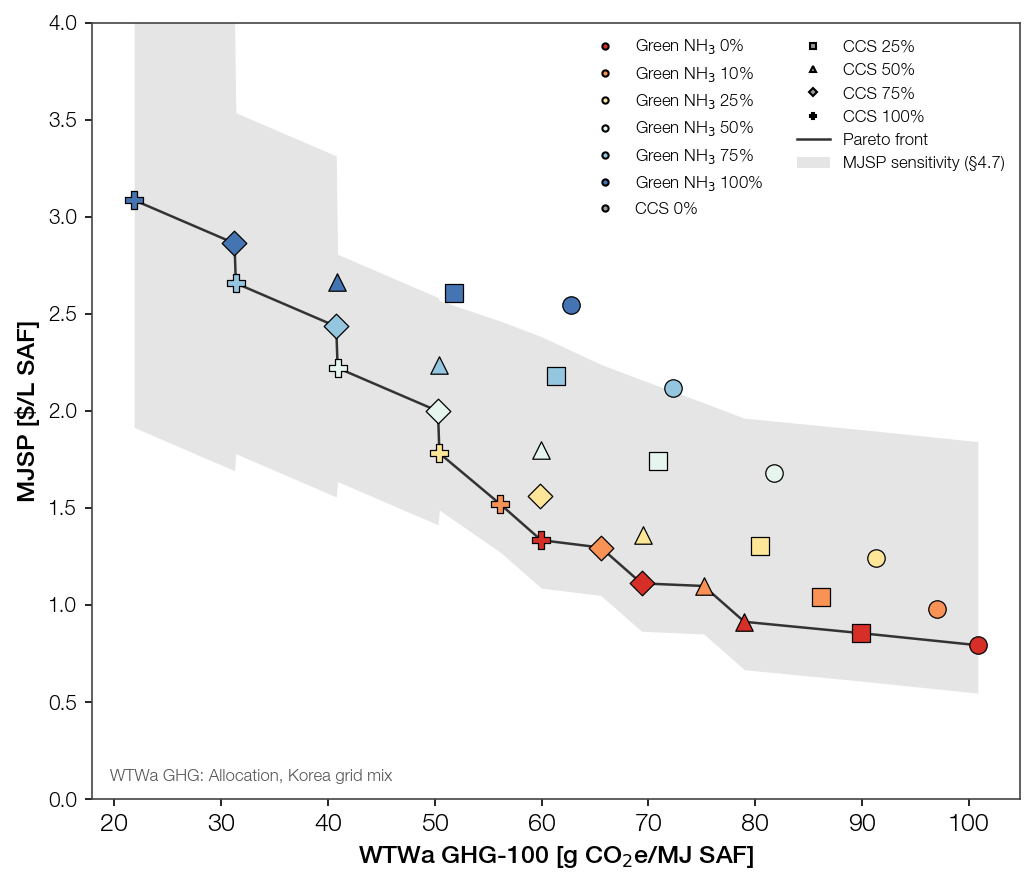
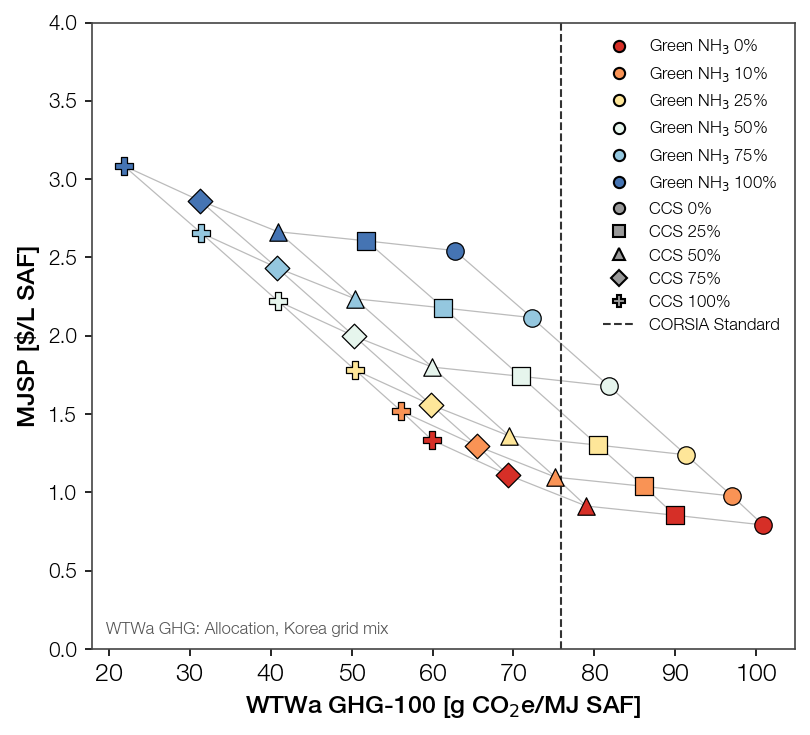
Redraw Pareto front from recorded xlsx; drop shade/front line, add mesh + CORSIA
plot_pareto_from_xlsx.py: new figure-only plotter reading Result/pareto_front.xlsx
(no TEA re-run). Scatter + iso-NH3/iso-CCS mesh, dashed CORSIA Standard line at
0.9x conventional jet WTWa GHG-100, single-column legend with enlarged markers,
5.5x5 canvas. Shade band and Pareto-front line removed.

tea_pareto_front.py: main() figsize 7x6 -> 5.5x5; removed fill_between sensitivity
band and its legend patch (lo/hi still exported).

diff --git a/plot_pareto_from_xlsx.py b/plot_pareto_from_xlsx.py
@@ -1,0 +1,56 @@
+"""Redraw Figure/pareto_front.png from the already-recorded Result/pareto_front.xlsx
+(no TEA re-run). Same scatter/legend as tea_pareto_front.main; shade band dropped,
+smaller canvas. Use after the grid is computed once; edit here for figure-only tweaks."""
+import os
+import numpy as np
+import pandas as pd
+import matplotlib.pyplot as plt
+from funs_lca import get_WTWa_conventional
+from tea_pareto_front import SA_RC, AMM_SCALES, CCS_RATES, MAIN_SCALE, FILE_WTWA
+
+
+def main() -> None:
+    df = pd.read_excel(os.path.join('Result', 'pareto_front.xlsx'))
+    plt.rcParams.update(SA_RC)
+    cmap = plt.get_cmap('RdYlBu')
+    amm_colors = {s: cmap(x) for s, x in zip(AMM_SCALES, np.linspace(0.1, 0.9, len(AMM_SCALES)))}
+    ccs_markers = dict(zip(CCS_RATES, ['o', 's', '^', 'D', 'P']))
+
+    fig, ax = plt.subplots(figsize=(5.5, 5))   # smaller canvas -> legend reads larger relative to axes
+    # mesh: connect the 6x5 (NH3 x CCS) sampling into iso-NH3 and iso-CCS lines so the
+    # deformed grid is visible in the (GHG, MJSP) plane. Under the markers (zorder 0).
+    gp = df.pivot(index='amm_scale', columns='ccs', values='ghg')
+    mp = df.pivot(index='amm_scale', columns='ccs', values='mjsp')
+    for a in gp.index:                          # iso-NH3 (walk CCS)
+        ax.plot(gp.loc[a], mp.loc[a], '-', color='#bbbbbb', lw=0.6, zorder=0)
+    for c in gp.columns:                        # iso-CCS (walk NH3)
+        ax.plot(gp[c], mp[c], '-', color='#bbbbbb', lw=0.6, zorder=0)
+    for _, r in df.iterrows():
+        ax.scatter(r['ghg'], r['mjsp'], s=70, color=amm_colors[r['amm_scale']],
+                   marker=ccs_markers[r['ccs']], edgecolor='black', linewidth=0.6, zorder=3)
+    front = df[df['pareto']]
+
+    # SAF regulation standard: CORSIA -10% line (0.9x conventional jet WTWa GHG-100).
+    corsia = 0.9 * get_WTWa_conventional(FILE_WTWA)['WTWa']['GHG-100']
+    ax.axvline(corsia, color='#333333', ls='--', lw=1.0, zorder=1, label='CORSIA Standard')
+
+    ax.set_xlabel('WTWa GHG-100 [g CO$_2$e/MJ SAF]')
+    ax.set_ylabel('MJSP [$/L SAF]')
+    amm_h = [plt.Line2D([], [], marker='o', ls='', color=amm_colors[s], mec='black',
+                        label=f'Green NH$_3$ {s / MAIN_SCALE * 100:g}%') for s in AMM_SCALES]
+    ccs_h = [plt.Line2D([], [], marker=ccs_markers[c], ls='', color='0.6', mec='black',
+                        label=f'CCS {int(c * 100)}%') for c in CCS_RATES]
+    corsia_h = plt.Line2D([], [], color='#333333', ls='--', lw=1.0, label='CORSIA Standard')
+    ax.legend(handles=amm_h + ccs_h + [corsia_h], ncol=1, loc='best', markerscale=1.8)
+    ax.text(0.02, 0.02, 'WTWa GHG: Allocation, Korea grid mix', transform=ax.transAxes,
+            ha='left', va='bottom', fontsize=8, color='#555555')
+    ax.set_ylim(0, 4)
+
+    os.makedirs('Figure', exist_ok=True)
+    fig.savefig(os.path.join('Figure', 'pareto_front.png'), dpi=150)
+    print('wrote Figure/pareto_front.png from Result/pareto_front.xlsx (%d points, %d on front)'
+          % (len(df), len(front)))
+
+
+if __name__ == '__main__':
+    main()

diff --git a/tea_pareto_front.py b/tea_pareto_front.py
@@ -211,7 +211,7 @@ def main() -> None:
     amm_colors = {s: cmap(x) for s, x in zip(AMM_SCALES, np.linspace(0.1, 0.9, len(AMM_SCALES)))}
     ccs_markers = dict(zip(CCS_RATES, ['o', 's', '^', 'D', 'P']))
 
-    fig, ax = plt.subplots(figsize=(7, 6))
+    fig, ax = plt.subplots(figsize=(5.5, 5))   # smaller canvas -> legend reads larger relative to axes
     for _, r in df.iterrows():
         ax.scatter(r['ghg'], r['mjsp'], s=70, color=amm_colors[r['amm_scale']],
                    marker=ccs_markers[r['ccs']], edgecolor='black', linewidth=0.6, zorder=3)
@@ -225,9 +225,7 @@ def main() -> None:
            for _, r in front.iterrows()]
     lo = [e[1] for e in err]
     hi = [e[2] for e in err]
-    # front is sorted by ghg, so fill_between reads left->right along the frontier
-    ax.fill_between(front['ghg'], lo, hi, color='#999999', alpha=0.25, lw=0,
-                    zorder=1, label='MJSP sensitivity (§4.7)')
+    # sensitivity envelope kept for export/print only; shaded band removed per request
     front = front.assign(mjsp_lo=lo, mjsp_hi=hi)
 
     ax.set_xlabel('WTWa GHG-100 [g CO$_2$e/MJ SAF]')
@@ -238,9 +236,7 @@ def main() -> None:
     ccs_h = [plt.Line2D([], [], marker=ccs_markers[c], ls='', color='0.6', mec='black',
                         label=f'CCS {int(c * 100)}%') for c in CCS_RATES]
     front_h = plt.Line2D([], [], color='#333333', lw=1.2, label='Pareto front')
-    err_h = plt.matplotlib.patches.Patch(facecolor='#999999', alpha=0.25, edgecolor='none',
-                                         label='MJSP sensitivity (§4.7)')
-    ax.legend(handles=amm_h + ccs_h + [front_h, err_h], ncol=2, loc='best')
+    ax.legend(handles=amm_h + ccs_h + [front_h], ncol=2, loc='best')
     # GHG basis stated on-plot to remove ambiguity (Korea grid mix, Allocation)
     ax.text(0.02, 0.02, 'WTWa GHG: Allocation, Korea grid mix', transform=ax.transAxes,
             ha='left', va='bottom', fontsize=8, color='#555555')
